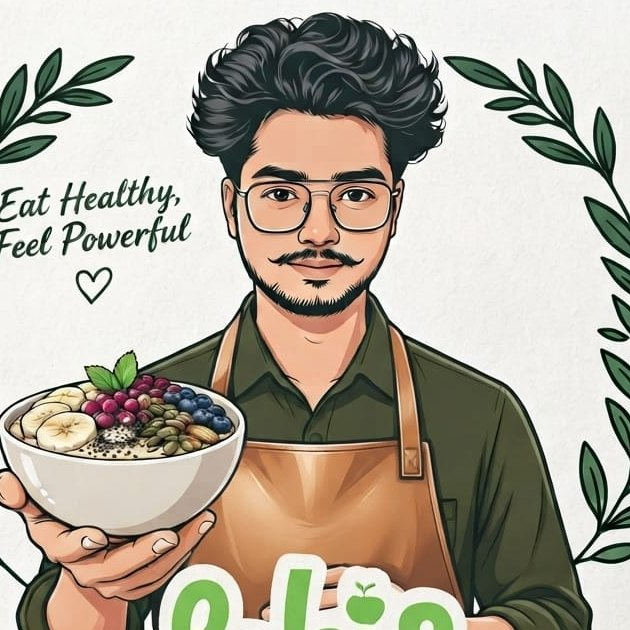
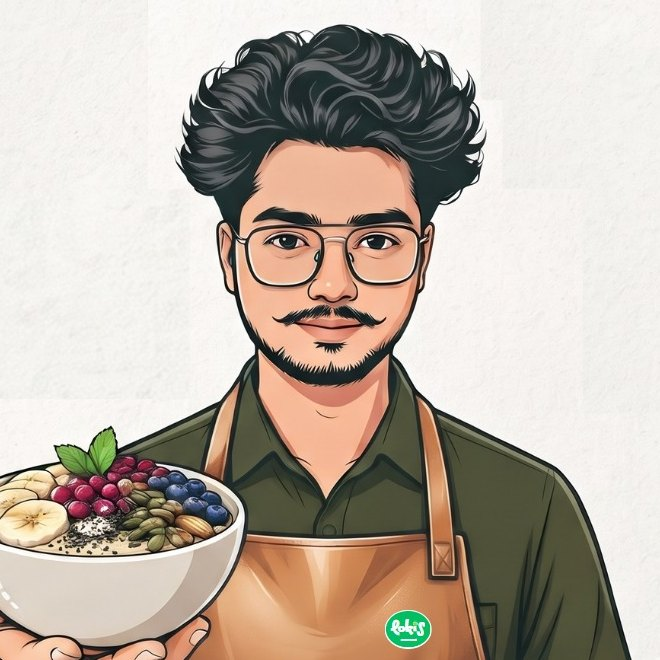
Fix failing Vercel build, new founder photo
Remove package.json (its build script made Vercel look for an output
folder and fail every deploy since the analytics PR); drop the duplicate
analytics script; replace the founder portrait.

Claude-Session: https://claude.ai/code/session_01KwdbcmJmSo2rUdm4vA3t7Y

diff --git a/lokis.html b/lokis.html
@@ -16,10 +16,6 @@
 <link href="https://fonts.googleapis.com/css2?family=Fraunces:ital,opsz,wght@0,9..144,500..900;1,9..144,500..900&family=Josefin+Sans:wght@400;600;700&display=swap" rel="stylesheet">
 <link rel="stylesheet" href="css/style.css">
 <script defer src="/_vercel/insights/script.js"></script>
-<script>
-  window.va = window.va || function () { (window.vaq = window.vaq || []).push(arguments); };
-</script>
-<script defer src="/_vercel/analytics/script.js"></script>
 <script>document.documentElement.classList.add("js")</script>
 </head>
 <body>
@@ -78,7 +74,7 @@
 
   <section class="section">
     <div class="wrap seal-grid">
-      <img class="reveal" src="assets/lokesh-full.jpg" alt="The Loki'S Power Bowl emblem: Lokesh holding a bowl inside a laurel wreath, with the words Eat Healthy, Feel Powerful" width="1024" height="1024" loading="lazy">
+      <img class="reveal" src="assets/lokesh-full.jpg" alt="The Loki'S Power Bowl emblem: Lokesh holding a bowl inside a laurel wreath, with the words Eat Healthy, Feel Powerful" width="1029" height="1035" loading="lazy">
       <div class="reveal">
         <span class="eyebrow leaf">The promise</span>
         <h2>Goodness in every bowl.</h2>

diff --git a/index.html b/index.html
@@ -16,10 +16,6 @@
 <link href="https://fonts.googleapis.com/css2?family=Fraunces:ital,opsz,wght@0,9..144,500..900;1,9..144,500..900&family=Josefin+Sans:wght@400;600;700&display=swap" rel="stylesheet">
 <link rel="stylesheet" href="css/style.css">
 <script defer src="/_vercel/insights/script.js"></script>
-<script>
-  window.va = window.va || function () { (window.vaq = window.vaq || []).push(arguments); };
-</script>
-<script defer src="/_vercel/analytics/script.js"></script>
 <script>document.documentElement.classList.add("js")</script>
 </head>
 <body>

diff --git a/order.html b/order.html
@@ -16,10 +16,6 @@
 <link href="https://fonts.googleapis.com/css2?family=Fraunces:ital,opsz,wght@0,9..144,500..900;1,9..144,500..900&family=Josefin+Sans:wght@400;600;700&display=swap" rel="stylesheet">
 <link rel="stylesheet" href="css/style.css">
 <script defer src="/_vercel/insights/script.js"></script>
-<script>
-  window.va = window.va || function () { (window.vaq = window.vaq || []).push(arguments); };
-</script>
-<script defer src="/_vercel/analytics/script.js"></script>
 <script>document.documentElement.classList.add("js")</script>
 </head>
 <body>
